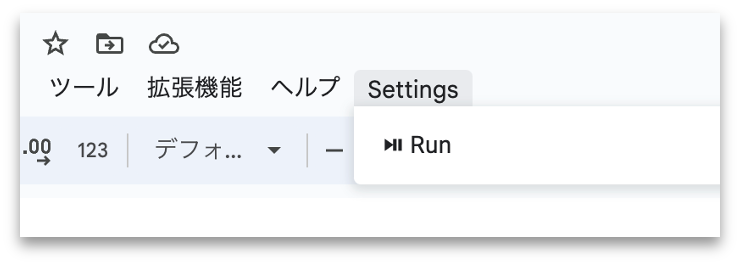
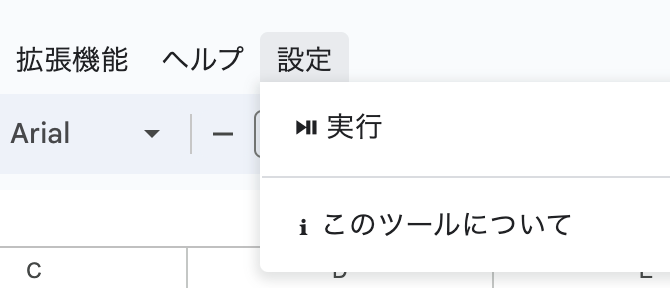
feat: add about page & localization for JA

diff --git a/code.js b/code.js
@@ -1,0 +1,90 @@
+// FUNCTIONS RELATED TO MENU & SIDEBAR
+// メニュー＆サイドバー関連の機能
+
+function onOpen(e) {
+  // Get the menu labels based on the user's language
+  // ユーザーの言語に基づいてメニューのラベルを取得する
+  let { settingsLabel, runLabel, aboutLabel } = setLabels();
+
+  // Adds custom menus to the spreadsheet
+  // カスタム メニューをスプレッドシートに追加する
+  SpreadsheetApp.getUi()
+    .createMenu(settingsLabel)
+    .addItem(runLabel, 'mainFunction')
+    .addSeparator()
+    .addItem(aboutLabel, 'showAbout')
+    .addToUi();
+}
+
+function setLabels() {
+  // Set default labels
+  // デフォルトのラベルを設定する
+  let settingsLabel = 'Settings'
+  let runLabel = '⏯ Run';
+  let aboutLabel = 'ℹ About';
+
+  // If user's language is Japanese
+  // ユーザーの言語が日本語の場合
+  if (USER_LANGUAGE && USER_LANGUAGE.indexOf('ja') === 0) {
+    settingsLabel = '設定'
+    runLabel = '⏯ 実行';
+    aboutLabel = 'ℹ このツールについて';
+  }
+
+  return { settingsLabel, runLabel, aboutLabel };
+}
+
+// Utility function to include content from an HTML file into another HTML file
+// HTML ファイルのコンテンツを別の HTML ファイルに含めるユーティリティ関数
+function include(filename){
+  return HtmlService.createHtmlOutputFromFile(filename).getContent();
+}
+
+// Displays about page
+// 「このツールについて」を表示する
+function showAbout() {
+  let dialogTitle = 'About This Utility';
+  let htmlFileName = 'about_en';
+
+  if (USER_LANGUAGE && USER_LANGUAGE.startsWith('ja')) {
+    dialogTitle = 'このツールについて';
+    htmlFileName = 'about_ja';
+  }
+
+  const htmlContent = HtmlService.createTemplateFromFile(htmlFileName)
+    .evaluate()
+    .setWidth(400)
+    .setHeight(280);
+
+  htmlContent.VERSION = VERSION;
+  htmlContent.COPYRIGHT = COPYRIGHT;
+
+  SpreadsheetApp.getUi().showModalDialog(htmlContent, dialogTitle);
+}
+
+// Displays execution logs
+// 実行ログを表示する
+function showSidebar(executionLogs) {
+  let array = executionLogs.split('\n');
+  let formattedOutput = array.map(line => `<p>${line.trim()}</p>`).join('');
+  let sidebarTitle = 'Execution Log';
+
+  if (USER_LANGUAGE && USER_LANGUAGE.startsWith('ja')) {
+    sidebarTitle = '実行ログ';
+  }
+
+  let css = `
+    <style>
+      p {
+        margin: 0;
+        font-size: 12px; 
+        font-family: Arial, sans-serif;
+      }
+    </style>
+  `;
+  
+  const htmlContent = HtmlService.createHtmlOutput(css + formattedOutput)
+    .setTitle(sidebarTitle);
+
+  SpreadsheetApp.getUi().showSidebar(htmlContent);
+}

diff --git a/main.js b/main.js
@@ -7,8 +7,8 @@
  Author: Magic Hat Inc. (Melinda Magyar)           
  著者: 株式会社マジックハット (マジャル メリンダ)
 
- Last modified: 2024/02/15
- 最終更新日: 2024年 2月 15日
+ Last modified: 2024/02/22
+ 最終更新日: 2024年 2月 22日
 #################################################################################################### */
 
 // MAIN FUNCTIONS
@@ -25,15 +25,6 @@ const SPREADSHEET_ID = PROPERTIES.SPREADSHEET_ID;
 const SHEET_NAME = PROPERTIES.SHEET_NAME; 
 
 let bearerToken = {};
-
-function onOpen(e) {
-  // Adds a custom menu to the spreadsheet
-  // カスタム メニューをスプレッドシートに追加する
-  SpreadsheetApp.getUi()
-      .createMenu('Settings')
-      .addItem('⏯ Run', 'mainFunction')
-      .addToUi();
-}
 
 // Get all data from spreadsheet (excluding EA)
 // スプレッドシートから全データを取得する（EAを除く）
@@ -262,7 +253,7 @@ function validateResponse(statusCode, responseCode, objectName) {
 // 日付をyyyy-mm-dd形式にフォーマットする
 function setDate(dateValue) {
   try {
-    return Utilities.formatDate(dateValue, SpreadsheetApp.getActiveSpreadsheet().getSpreadsheetTimeZone(), "yyyy-MM-dd");
+    return Utilities.formatDate(dateValue, SpreadsheetApp.getActiveSpreadsheet().getSpreadsheetTimeZone(), 'yyyy-MM-dd');
   } catch {
     validateResponse(undefined, 'setDate()', ERROR_DATE);
   }
@@ -319,7 +310,7 @@ function uploadDeviceDataToJamf() {
 
         if (key === 'mobileDeviceSerial') {
           mobileDeviceSerialNumber = item[key];
-          Logger.log("Device: " + mobileDeviceSerialNumber);
+          Logger.log('Device: ' + mobileDeviceSerialNumber);
         }
 
         // Handles different cases
@@ -425,25 +416,4 @@ function mainFunction() {
   uploadDeviceDataToJamf();
   invalidateBearerToken();
   showSidebar(Logger.getLog());
-}
-
-// Displays execution logs
-// ログを表示する
-function showSidebar(executionLogs) {
-  let array = executionLogs.split("\n");
-  let html = array.map(line => `<p>${line.trim()}</p>`).join("");
-
-  let css = `
-    <style>
-      p {
-        margin: 0;
-        font-size: 12px; 
-        font-family: Arial, sans-serif;
-      }
-    </style>
-  `;
-  
-  const widget = HtmlService.createHtmlOutput(css + html);
-  widget.setTitle("Execution log");
-  SpreadsheetApp.getUi().showSidebar(widget);
 }

diff --git a/about_ja.html b/about_ja.html
@@ -1,0 +1,15 @@
+<!DOCTYPE html>
+<html>
+  <head>
+    <base target="_top">
+    <?!= include('styles'); ?>
+  </head>
+  <body>
+    <p id="version">バージョン： <?= VERSION ?></p>  
+    <p>このソリューションは、ワークフローを効率化するために設計されました。</p>
+    <p>Jamfのモバイルデバイスインベントリの一括更新ツールであり、GAS、Google Sheets、およびJamf APIを利用しています。</p>
+    <p id="documentation">※使い方について、<a href="https://github.com/Magichat-Inc/GoogleAppsScript-for-Jamf/blob/main/README_JA.md" target="_blank">ドキュメンテーション</a> をご覧ください。
+    </p>
+    <p id="copyright"><?= COPYRIGHT ?></p>
+  </body>
+</html>

diff --git a/strings.js b/strings.js
@@ -1,6 +1,9 @@
 // USED STRING LITERALS
 // 使用してる文字列
 
+const VERSION = '1.0.0'
+const COPYRIGHT = '© 2024 Magic Hat Inc. All rights reserved.'
+
 const VALID_TOKEN = 'Token valid until the following epoch time:, ';
 const INVALID_TOKEN = 'Token already invalid.';
 const NO_VALID_TOKEN = 'No valid token available, getting new token.';
@@ -11,4 +14,4 @@ const ERROR_DATE = 'Date related element';
 const ERROR_AUTH = 'Request failed. Response code: ';
 const ERROR_TOKEN = 'An unknown error occurred invalidating the token. Response code: ';
 
-const SUCCESS = 'Successfully set ';
+const SUCCESS = 'Successfully set: ';

diff --git a/about_en.html b/about_en.html
@@ -1,0 +1,15 @@
+<!DOCTYPE html>
+<html>
+  <head>
+    <base target="_top">
+    <?!= include('styles'); ?>
+  </head>
+  <body>
+    <p id="version">Version: <?= VERSION ?></p>  
+    <p>This solution is designed to streamline your workflow.</p>
+    <p>It is a mobile device inventory mass update tool for Jamf utalizing GAS, Google Sheets and the Jamf API.</p>
+    <p id="documentation">*Please refer to the <a href="https://github.com/Magichat-Inc/GoogleAppsScript-for-Jamf/blob/main/README.md" target="_blank">documentation</a> on how to use this tool.
+    </p>
+    <p id="copyright"><?= COPYRIGHT ?></p>
+  </body>
+</html>

diff --git a/styles.html b/styles.html
@@ -1,0 +1,28 @@
+<style>
+  body {
+    margin: 0;
+  }
+
+  #version, #copyright {
+    color: #333333; 
+  }
+
+  #version {
+    margin-top: 0; 
+    font-size: 10px;
+  }
+
+  #documentation {
+    font-size: 13px;
+  }
+
+  #documentation a {
+    color: #107ab0;
+  }
+
+  #copyright {
+    font-size: 12px;
+    margin-top: 40px;
+    text-align: right;
+  }
+</style>

diff --git a/README_JA.md b/README_JA.md
@@ -216,7 +216,7 @@ Jamf Pro で API用ユーザアカウントを以下の様に作成します。
 ## [Mass Updating](#mass-updating)
 1. コピーしたスプレッドシートを開く。
 2. 更新したいデータを入力する。
-3. メニューでヘルプの右にある Settings > Run を押下。  
+3. メニューでヘルプの右にある 「設定」 > 「実行」 を押下。  
 <img width="250" alt="プログラム実行" src="./assets/JA/08.png">
 
 更新中↓  
